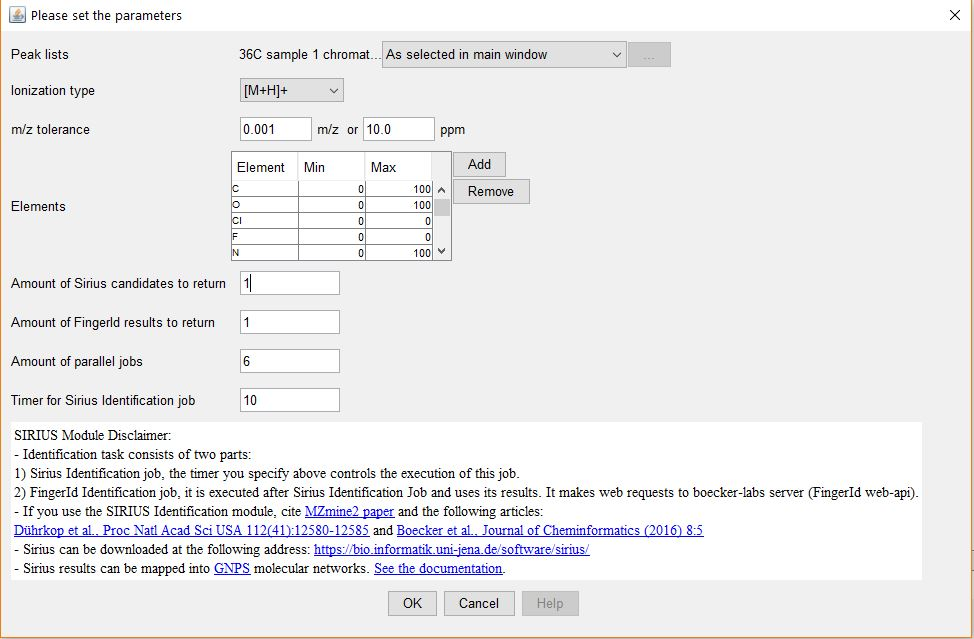
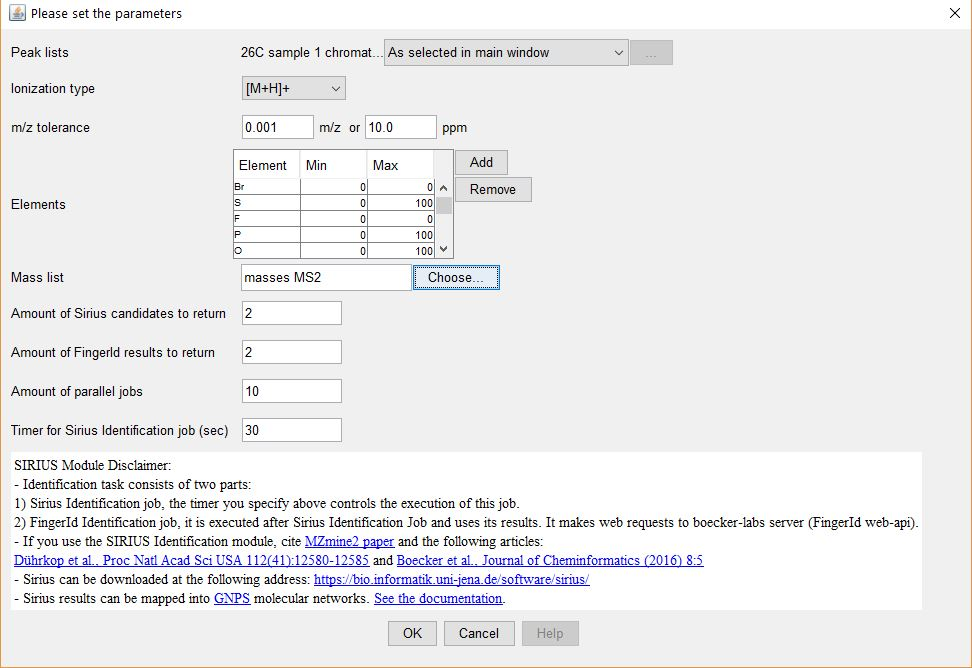
Update help page

diff --git a/src/main/java/net/sf/mzmine/modules/peaklistmethods/identification/sirius/help/help.html b/src/main/java/net/sf/mzmine/modules/peaklistmethods/identification/sirius/help/help.html
@@ -104,6 +104,11 @@
       <dt>Amount of parallel jobs</dt>
       <dd>This field allows to speed up the peak list processing using parallelism. You can set the amount of parallel threads.<br>
         Values from 1 to 20 (be careful).</dd>
+
+      <dt>Mass list</dt>
+      <dd>The same value of Mass List Name is used for MS1 and MS2 scans<br>
+        You have to run Mass Detection module on all scans with the same mass list name in order to use them in module like this.<br>
+        Note that the MS1 spectrum can contain the deconvoluted isotopic peaks.</dd>
     </dl>
   </body>
 </html>

diff --git a/src/main/java/net/sf/mzmine/modules/peaklistmethods/identification/sirius/SingleRowIdentificationTask.java b/src/main/java/net/sf/mzmine/modules/peaklistmethods/identification/sirius/SingleRowIdentificationTask.java
@@ -159,12 +159,12 @@ public class SingleRowIdentificationTask extends AbstractTask {
       ms2list = scanner.getMsMsList();
 
       if (ms1list == null && ms2list == null) {
-        throw new MethodRuntimeException("There are no scans that satisfy condition");
+        throw new MethodRuntimeException("There are no scans for requested Mass List name");
       }
     } catch (MethodRuntimeException f) {
       showErrorAndCancel(window, String.format("Empty Mass List for %.2f", parentMass),
           "There is no MS2 scans that have a given precursor mass.\n" +
-      "MS1 and MS2 lists are empty.");
+      "MS1 and MS2 lists are empty.\nCheck the Mass List field.");
       return;
     }
 
